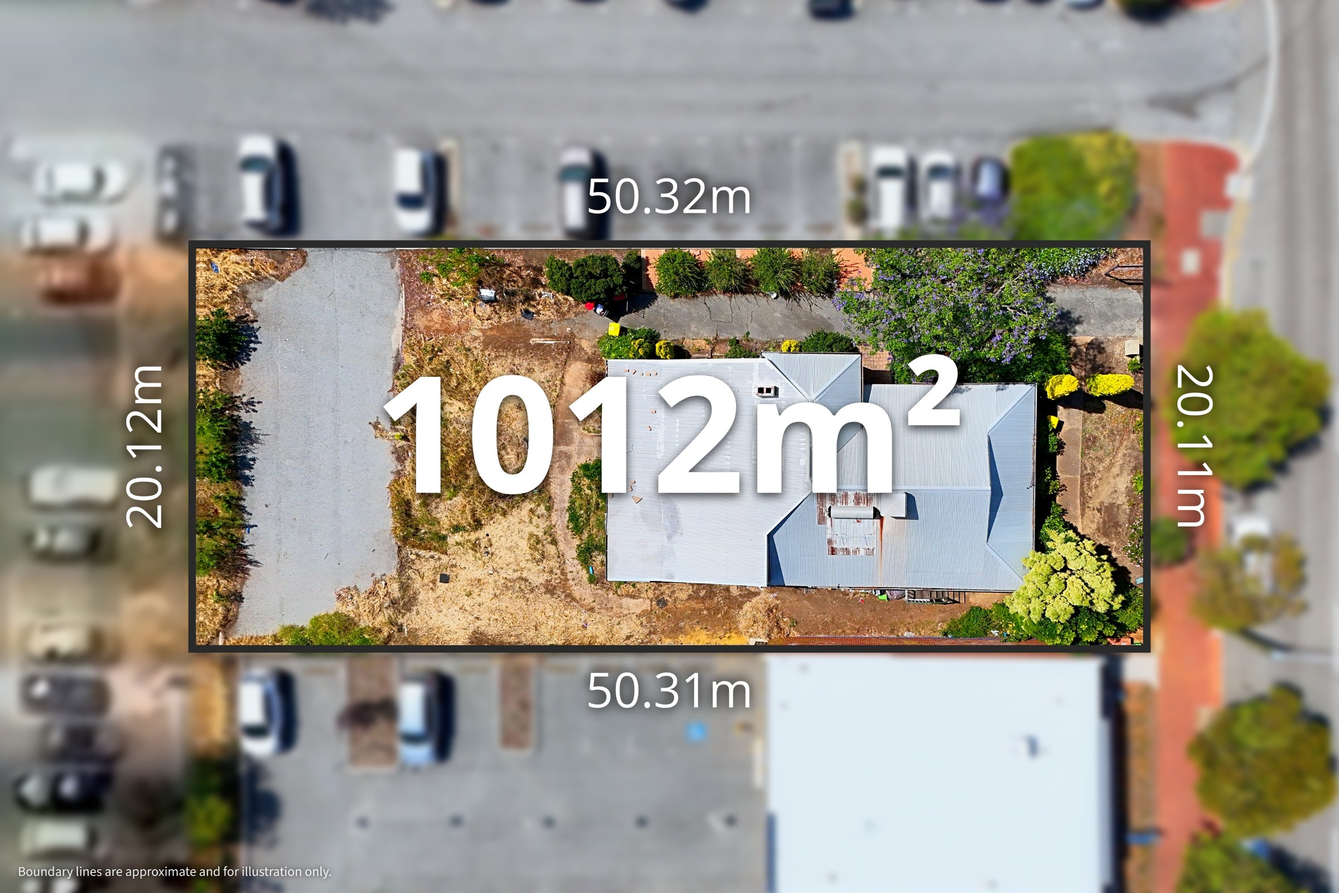
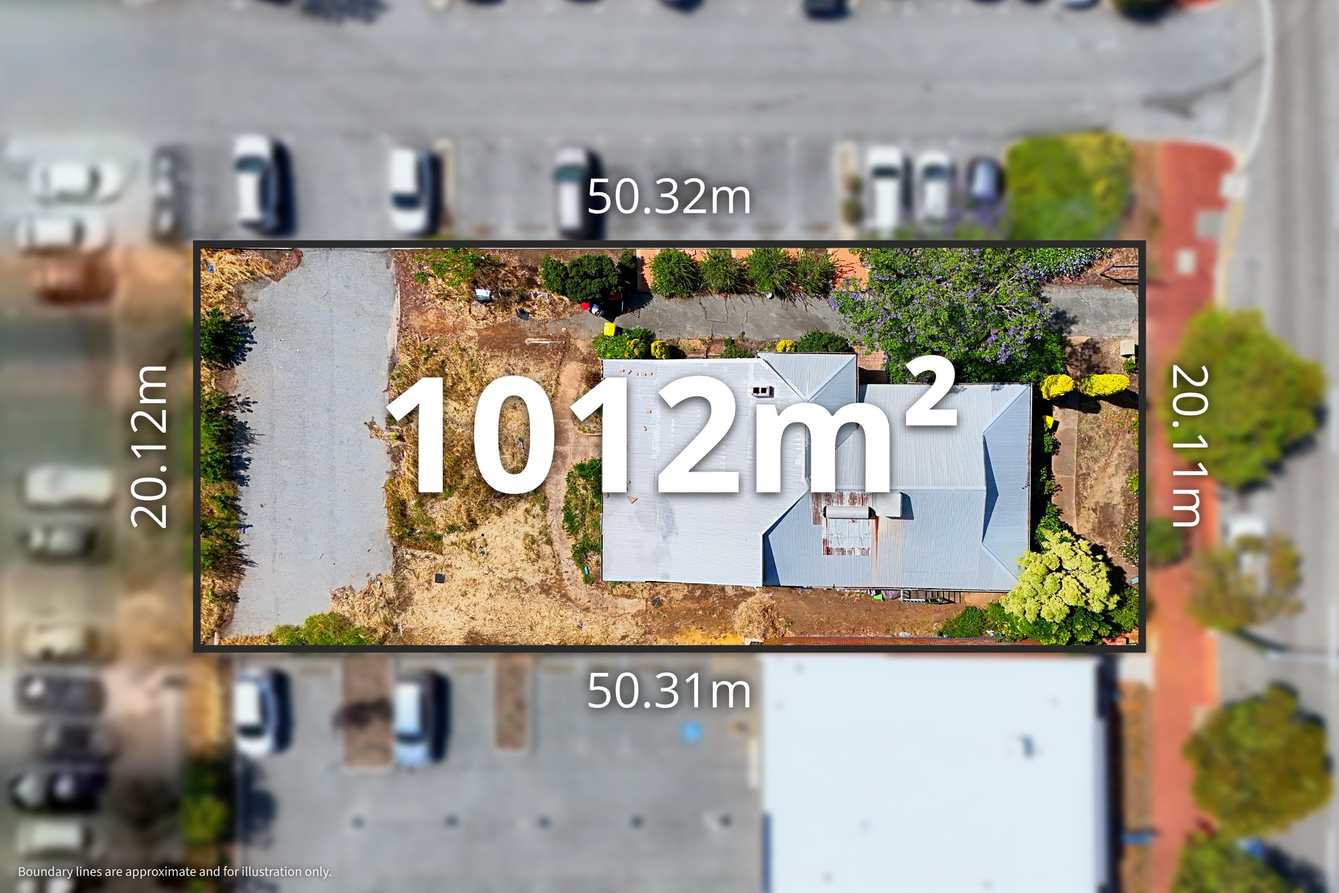
43 William St 0107: smoother satellite background, back line on photo edge
Claude-Session: https://claude.ai/code/session_01A5qGg2LnJXxgSHoMQFvEEG

diff --git a/aerials/17-nov-2026/index.html b/aerials/17-nov-2026/index.html
@@ -5,4 +5,4 @@ body{margin:0;background:var(--bg);color:var(--fg);font:15px/1.45 system-ui,-app
 header,section{max-width:1400px;margin:auto;padding:18px 16px}h1{font-size:20px;margin:0}h2{font-size:17px;margin:0}header p,section p{color:var(--mut);margin:4px 0 0}
 .ed{margin-left:10px;color:var(--acc);font-weight:600;text-decoration:none}a{color:var(--acc)}
 .chk{margin-top:10px}.chk summary{cursor:pointer;color:var(--mut);font-weight:600}.chk iframe{width:100%;height:420px;border:0;border-radius:6px;margin-top:6px;background:#111}.g{display:grid;grid-template-columns:repeat(auto-fill,minmax(280px,1fr));gap:8px;margin-top:10px}.g img{width:100%;display:block;border-radius:4px}</style></head>
-<body><header><h1>Drone edits — Tue 17 Nov 2026</h1><p>Tap a photo for full size. <b>Edit</b> opens the job in the <a href="/pins/">editor</a> with all its pins and settings.</p></header><section><h2>SEND TO EDITOR — no lot boundary (Mac offline, no cadastre/satellite); hazy hills/horizon after sky swap on 0218/0220/0227/0229 (tower ghosting removed); both top-downs over-saturated and the house is off-centre — please re-edit sky/colour · 34 Croyden Rd, Roleystone WA 6111</h2><p>Jayden Cooke · Rodway · 13 photos (top-downs first) <a class="ed" href="/pins/?open=17-nov-2026/34_croyden_rd">Edit</a><a class="ed" href="/lots/?img=/aerials/17-nov-2026/34_croyden_rd/src/DJI_20261117135524_0236_D.jpg&street=Croyden%20Road" target="_blank">Lots</a><a class="ed" href="34_croyden_rd/check.html" target="_blank">Check map</a></p><div class="g"><a href="34_croyden_rd/DJI_20261117135524_0236_D.jpg?v=1794930465" target="_blank"><img loading="lazy" src="34_croyden_rd/t/DJI_20261117135524_0236_D.jpg?v=1794930465" alt=""></a><a href="34_croyden_rd/DJI_20261117135538_0237_D_r180_sq.jpg?v=1794930465" target="_blank"><img loading="lazy" src="34_croyden_rd/t/DJI_20261117135538_0237_D_r180_sq.jpg?v=1794930465" alt=""></a><a href="34_croyden_rd/DJI_20261117134904_0218_D.jpg?v=1794930465" target="_blank"><img loading="lazy" src="34_croyden_rd/t/DJI_20261117134904_0218_D.jpg?v=1794930465" alt=""></a><a href="34_croyden_rd/DJI_20261117135013_0220_D.jpg?v=1794930465" target="_blank"><img loading="lazy" src="34_croyden_rd/t/DJI_20261117135013_0220_D.jpg?v=1794930465" alt=""></a><a href="34_croyden_rd/DJI_20261117135036_0221_D.jpg?v=1794930465" target="_blank"><img loading="lazy" src="34_croyden_rd/t/DJI_20261117135036_0221_D.jpg?v=1794930465" alt=""></a><a href="34_croyden_rd/DJI_20261117135113_0223_D.jpg?v=1794930465" target="_blank"><img loading="lazy" src="34_croyden_rd/t/DJI_20261117135113_0223_D.jpg?v=1794930465" alt=""></a><a href="34_croyden_rd/DJI_20261117135138_0224_D.jpg?v=1794930465" target="_blank"><img loading="lazy" src="34_croyden_rd/t/DJI_20261117135138_0224_D.jpg?v=1794930465" alt=""></a><a href="34_croyden_rd/DJI_20261117135159_0225_D.jpg?v=1794930465" target="_blank"><img loading="lazy" src="34_croyden_rd/t/DJI_20261117135159_0225_D.jpg?v=1794930465" alt=""></a><a href="34_croyden_rd/DJI_20261117135227_0227_D.jpg?v=1794930465" target="_blank"><img loading="lazy" src="34_croyden_rd/t/DJI_20261117135227_0227_D.jpg?v=1794930465" alt=""></a><a href="34_croyden_rd/DJI_20261117135326_0229_D.jpg?v=1794930465" target="_blank"><img loading="lazy" src="34_croyden_rd/t/DJI_20261117135326_0229_D.jpg?v=1794930465" alt=""></a><a href="34_croyden_rd/DJI_20261117143956_0239_D.jpg?v=1794930465" target="_blank"><img loading="lazy" src="34_croyden_rd/t/DJI_20261117143956_0239_D.jpg?v=1794930465" alt=""></a><a href="34_croyden_rd/DJI_20261117144039_0240_D.jpg?v=1794930465" target="_blank"><img loading="lazy" src="34_croyden_rd/t/DJI_20261117144039_0240_D.jpg?v=1794930465" alt=""></a><a href="34_croyden_rd/DJI_20261117144046_0241_D.jpg?v=1794930465" target="_blank"><img loading="lazy" src="34_croyden_rd/t/DJI_20261117144046_0241_D.jpg?v=1794930465" alt=""></a></div><details class="chk" open><summary>Quick check — boundary + 9 pinned places</summary><iframe loading="lazy" src="34_croyden_rd/check.html?v=1794930467" title="Boundary and places check"></iframe></details></section><section><h2>SEND TO EDITOR — pale hard-edged band of old sky above the horizon on 0258/0259/0260 after the sky swap; no lot boundary (grouped dwelling, Mac offline) — please re-do the sky on those frames · 374 Light St, Dianella WA 6059</h2><p>Lucy Deng · Ausvision Realty · 11 photos (top-downs first) <a class="ed" href="/pins/?open=17-nov-2026/374_light_st">Edit</a><a class="ed" href="/lots/?img=/aerials/17-nov-2026/374_light_st/src/DJI_20261117160634_0269_D_r180.jpg&street=Light%20Street" target="_blank">Lots</a><a class="ed" href="374_light_st/check.html" target="_blank">Check map</a></p><div class="g"><a href="374_light_st/DJI_20261117160634_0269_D_r180.jpg?v=1794930470" target="_blank"><img loading="lazy" src="374_light_st/t/DJI_20261117160634_0269_D_r180.jpg?v=1794930470" alt=""></a><a href="374_light_st/DJI_20261117160607_0267_D_sq.jpg?v=1794930470" target="_blank"><img loading="lazy" src="374_light_st/t/DJI_20261117160607_0267_D_sq.jpg?v=1794930470" alt=""></a><a href="374_light_st/DJI_20261117160019_0257_D.jpg?v=1794930470" target="_blank"><img loading="lazy" src="374_light_st/t/DJI_20261117160019_0257_D.jpg?v=1794930470" alt=""></a><a href="374_light_st/DJI_20261117160038_0258_D.jpg?v=1794930470" target="_blank"><img loading="lazy" src="374_light_st/t/DJI_20261117160038_0258_D.jpg?v=1794930470" alt=""></a><a href="374_light_st/DJI_20261117160056_0259_D.jpg?v=1794930470" target="_blank"><img loading="lazy" src="374_light_st/t/DJI_20261117160056_0259_D.jpg?v=1794930470" alt=""></a><a href="374_light_st/DJI_20261117160119_0260_D.jpg?v=1794930470" target="_blank"><img loading="lazy" src="374_light_st/t/DJI_20261117160119_0260_D.jpg?v=1794930470" alt=""></a><a href="374_light_st/DJI_20261117160147_0261_D.jpg?v=1794930470" target="_blank"><img loading="lazy" src="374_light_st/t/DJI_20261117160147_0261_D.jpg?v=1794930470" alt=""></a><a href="374_light_st/DJI_20261117160253_0263_D.jpg?v=1794930470" target="_blank"><img loading="lazy" src="374_light_st/t/DJI_20261117160253_0263_D.jpg?v=1794930470" alt=""></a><a href="374_light_st/DJI_20261117160402_0264_D.jpg?v=1794930470" target="_blank"><img loading="lazy" src="374_light_st/t/DJI_20261117160402_0264_D.jpg?v=1794930470" alt=""></a><a href="374_light_st/DJI_20261117160425_0265_D.jpg?v=1794930470" target="_blank"><img loading="lazy" src="374_light_st/t/DJI_20261117160425_0265_D.jpg?v=1794930470" alt=""></a><a href="374_light_st/DJI_20261117160443_0266_D.jpg?v=1794930470" target="_blank"><img loading="lazy" src="374_light_st/t/DJI_20261117160443_0266_D.jpg?v=1794930470" alt=""></a></div><details class="chk" open><summary>Quick check — boundary + 17 pinned places</summary><iframe loading="lazy" src="374_light_st/check.html?v=1794930472" title="Boundary and places check"></iframe></details></section><section><h2>SEND TO EDITOR — white halo/glow strip along the ridge line on 0114/0115 (faint haze 0108/0111/0112) after the sky swap; house is out of shot on 0110 and 0114 (shooter framing) — please re-do the sky and check those frames · 43 William St, Armadale WA 6112</h2><p>Jayden Cooke · Rodway · 10 photos (top-downs first) <a class="ed" href="/pins/?open=17-nov-2026/43_william_st">Edit</a><a class="ed" href="/lots/?img=/aerials/17-nov-2026/43_william_st/src/dji_fly_20261117_102652_0102_1794923605590_photo_sq.JPG&street=William%20Street" target="_blank">Lots</a><a class="ed" href="43_william_st/check.html" target="_blank">Check map</a></p><div class="g"><a href="43_william_st/dji_fly_20261117_102652_0102_1794923605590_photo_sq.jpg?v=1795010000" target="_blank"><img loading="lazy" src="43_william_st/t/dji_fly_20261117_102652_0102_1794923605590_photo_sq.jpg?v=1795010000" alt=""></a><a href="43_william_st/dji_fly_20261117_102734_0107_1794923598787_photo_sq.jpg?v=1795090000" target="_blank"><img loading="lazy" src="43_william_st/t/dji_fly_20261117_102734_0107_1794923598787_photo_sq.jpg?v=1795090000" alt=""></a><a href="43_william_st/dji_fly_20261117_102804_0108_1794923597373_photo.jpg?v=1795010000" target="_blank"><img loading="lazy" src="43_william_st/t/dji_fly_20261117_102804_0108_1794923597373_photo.jpg?v=1795010000" alt=""></a><a href="43_william_st/dji_fly_20261117_102836_0109_1794923595154_photo.jpg?v=1795010000" target="_blank"><img loading="lazy" src="43_william_st/t/dji_fly_20261117_102836_0109_1794923595154_photo.jpg?v=1795010000" alt=""></a><a href="43_william_st/dji_fly_20261117_102942_0110_1794923593774_photo.jpg?v=1795010000" target="_blank"><img loading="lazy" src="43_william_st/t/dji_fly_20261117_102942_0110_1794923593774_photo.jpg?v=1795010000" alt=""></a><a href="43_william_st/dji_fly_20261117_103016_0111_1794923592394_photo.jpg?v=1795010000" target="_blank"><img loading="lazy" src="43_william_st/t/dji_fly_20261117_103016_0111_1794923592394_photo.jpg?v=1795010000" alt=""></a><a href="43_william_st/dji_fly_20261117_103050_0112_1794923591070_photo.jpg?v=1795010000" target="_blank"><img loading="lazy" src="43_william_st/t/dji_fly_20261117_103050_0112_1794923591070_photo.jpg?v=1795010000" alt=""></a><a href="43_william_st/dji_fly_20261117_103102_0113_1794923589788_photo.jpg?v=1795010000" target="_blank"><img loading="lazy" src="43_william_st/t/dji_fly_20261117_103102_0113_1794923589788_photo.jpg?v=1795010000" alt=""></a><a href="43_william_st/dji_fly_20261117_103116_0114_1794923588534_photo.jpg?v=1795010000" target="_blank"><img loading="lazy" src="43_william_st/t/dji_fly_20261117_103116_0114_1794923588534_photo.jpg?v=1795010000" alt=""></a><a href="43_william_st/dji_fly_20261117_103130_0115_1794923587236_photo.jpg?v=1795010000" target="_blank"><img loading="lazy" src="43_william_st/t/dji_fly_20261117_103130_0115_1794923587236_photo.jpg?v=1795010000" alt=""></a></div><details class="chk" open><summary>Quick check — boundary + 12 pinned places</summary><iframe loading="lazy" src="43_william_st/check.html?v=1794950668" title="Boundary and places check"></iframe></details></section><section><h2>SEND TO EDITOR — sky swap left ghost blocks of old sky above the horizon on 0125/0126/0127 and halos/ghosting around the CBD towers on 0118/0119/0128, grey haze over the hills on 0123/0124 — please replace the sky on every oblique · 28/76 Newcastle St, West Perth WA 6005</h2><p>Shane Garrett · Belle Property · 13 photos (top-downs first) <a class="ed" href="/pins/?open=17-nov-2026/28_76_newcastle_st">Edit</a><a class="ed" href="/lots/?img=/aerials/17-nov-2026/28_76_newcastle_st/src/dji_fly_20261117_123400_0117_1794923584798_photo_r180_sq.JPG&street=Newcastle%20Street" target="_blank">Lots</a><a class="ed" href="28_76_newcastle_st/check.html" target="_blank">Check map</a></p><div class="g"><a href="28_76_newcastle_st/dji_fly_20261117_123400_0117_1794923584798_photo_r180_sq.jpg?v=1794950677" target="_blank"><img loading="lazy" src="28_76_newcastle_st/t/dji_fly_20261117_123400_0117_1794923584798_photo_r180_sq.jpg?v=1794950677" alt=""></a><a href="28_76_newcastle_st/dji_fly_20261117_123356_0116_1794923585995_photo.jpg?v=1794950678" target="_blank"><img loading="lazy" src="28_76_newcastle_st/t/dji_fly_20261117_123356_0116_1794923585995_photo.jpg?v=1794950678" alt=""></a><a href="28_76_newcastle_st/dji_fly_20261117_123438_0118_1794923583683_photo.jpg?v=1794950678" target="_blank"><img loading="lazy" src="28_76_newcastle_st/t/dji_fly_20261117_123438_0118_1794923583683_photo.jpg?v=1794950678" alt=""></a><a href="28_76_newcastle_st/dji_fly_20261117_123500_0119_1794923582541_photo.jpg?v=1794950678" target="_blank"><img loading="lazy" src="28_76_newcastle_st/t/dji_fly_20261117_123500_0119_1794923582541_photo.jpg?v=1794950678" alt=""></a><a href="28_76_newcastle_st/dji_fly_20261117_123532_0120_1794923581349_photo.jpg?v=1794950678" target="_blank"><img loading="lazy" src="28_76_newcastle_st/t/dji_fly_20261117_123532_0120_1794923581349_photo.jpg?v=1794950678" alt=""></a><a href="28_76_newcastle_st/dji_fly_20261117_123548_0121_1794923580121_photo.jpg?v=1794950678" target="_blank"><img loading="lazy" src="28_76_newcastle_st/t/dji_fly_20261117_123548_0121_1794923580121_photo.jpg?v=1794950678" alt=""></a><a href="28_76_newcastle_st/dji_fly_20261117_123610_0122_1794923578874_photo.jpg?v=1794950678" target="_blank"><img loading="lazy" src="28_76_newcastle_st/t/dji_fly_20261117_123610_0122_1794923578874_photo.jpg?v=1794950678" alt=""></a><a href="28_76_newcastle_st/dji_fly_20261117_123630_0123_1794923577572_photo.jpg?v=1794950678" target="_blank"><img loading="lazy" src="28_76_newcastle_st/t/dji_fly_20261117_123630_0123_1794923577572_photo.jpg?v=1794950678" alt=""></a><a href="28_76_newcastle_st/dji_fly_20261117_123646_0124_1794923576272_photo.jpg?v=1794950678" target="_blank"><img loading="lazy" src="28_76_newcastle_st/t/dji_fly_20261117_123646_0124_1794923576272_photo.jpg?v=1794950678" alt=""></a><a href="28_76_newcastle_st/dji_fly_20261117_123702_0125_1794923575020_photo.jpg?v=1794950678" target="_blank"><img loading="lazy" src="28_76_newcastle_st/t/dji_fly_20261117_123702_0125_1794923575020_photo.jpg?v=1794950678" alt=""></a><a href="28_76_newcastle_st/dji_fly_20261117_123724_0126_1794923573753_photo.jpg?v=1794950678" target="_blank"><img loading="lazy" src="28_76_newcastle_st/t/dji_fly_20261117_123724_0126_1794923573753_photo.jpg?v=1794950678" alt=""></a><a href="28_76_newcastle_st/dji_fly_20261117_123754_0127_1794923572402_photo.jpg?v=1794950678" target="_blank"><img loading="lazy" src="28_76_newcastle_st/t/dji_fly_20261117_123754_0127_1794923572402_photo.jpg?v=1794950678" alt=""></a><a href="28_76_newcastle_st/dji_fly_20261117_123806_0128_1794923571185_photo.jpg?v=1794950678" target="_blank"><img loading="lazy" src="28_76_newcastle_st/t/dji_fly_20261117_123806_0128_1794923571185_photo.jpg?v=1794950678" alt=""></a></div><details class="chk" open><summary>Quick check — boundary + 8 pinned places</summary><iframe loading="lazy" src="28_76_newcastle_st/check.html?v=1794950681" title="Boundary and places check"></iframe></details></section><section><h2>SEND TO EDITOR — CBD tower tops ghosted after the sky swap on 0135/0136, faint halo 0131 and haze 0133/0134 — please re-do the sky on the obliques · 79/1178 Hay St, West Perth WA 6005</h2><p>Megan Topham · Belle Property · 12 photos (top-downs first) <a class="ed" href="/pins/?open=17-nov-2026/79_1178_hay_st">Edit</a><a class="ed" href="/lots/?img=/aerials/17-nov-2026/79_1178_hay_st/src/dji_fly_20261117_160212_0129_1794923569992_photo_r270.JPG&street=Hay%20Street" target="_blank">Lots</a><a class="ed" href="79_1178_hay_st/check.html" target="_blank">Check map</a></p><div class="g"><a href="79_1178_hay_st/dji_fly_20261117_160212_0129_1794923569992_photo_r270.jpg?v=1794950688" target="_blank"><img loading="lazy" src="79_1178_hay_st/t/dji_fly_20261117_160212_0129_1794923569992_photo_r270.jpg?v=1794950688" alt=""></a><a href="79_1178_hay_st/dji_fly_20261117_160212_0129_1794923569992_photo.jpg?v=1794950688" target="_blank"><img loading="lazy" src="79_1178_hay_st/t/dji_fly_20261117_160212_0129_1794923569992_photo.jpg?v=1794950688" alt=""></a><a href="79_1178_hay_st/dji_fly_20261117_160252_0130_1794923568799_photo.jpg?v=1794950688" target="_blank"><img loading="lazy" src="79_1178_hay_st/t/dji_fly_20261117_160252_0130_1794923568799_photo.jpg?v=1794950688" alt=""></a><a href="79_1178_hay_st/dji_fly_20261117_160320_0131_1794923567548_photo.jpg?v=1794950688" target="_blank"><img loading="lazy" src="79_1178_hay_st/t/dji_fly_20261117_160320_0131_1794923567548_photo.jpg?v=1794950688" alt=""></a><a href="79_1178_hay_st/dji_fly_20261117_160336_0132_1794923565379_photo.jpg?v=1794950688" target="_blank"><img loading="lazy" src="79_1178_hay_st/t/dji_fly_20261117_160336_0132_1794923565379_photo.jpg?v=1794950688" alt=""></a><a href="79_1178_hay_st/dji_fly_20261117_160354_0133_1794923564099_photo.jpg?v=1794950688" target="_blank"><img loading="lazy" src="79_1178_hay_st/t/dji_fly_20261117_160354_0133_1794923564099_photo.jpg?v=1794950688" alt=""></a><a href="79_1178_hay_st/dji_fly_20261117_160406_0134_1794923562823_photo.jpg?v=1794950688" target="_blank"><img loading="lazy" src="79_1178_hay_st/t/dji_fly_20261117_160406_0134_1794923562823_photo.jpg?v=1794950688" alt=""></a><a href="79_1178_hay_st/dji_fly_20261117_160428_0135_1794923561548_photo.jpg?v=1794950688" target="_blank"><img loading="lazy" src="79_1178_hay_st/t/dji_fly_20261117_160428_0135_1794923561548_photo.jpg?v=1794950688" alt=""></a><a href="79_1178_hay_st/dji_fly_20261117_160446_0136_1794923560286_photo.jpg?v=1794950688" target="_blank"><img loading="lazy" src="79_1178_hay_st/t/dji_fly_20261117_160446_0136_1794923560286_photo.jpg?v=1794950688" alt=""></a><a href="79_1178_hay_st/dji_fly_20261117_160512_0137_1794923559042_photo.jpg?v=1794950688" target="_blank"><img loading="lazy" src="79_1178_hay_st/t/dji_fly_20261117_160512_0137_1794923559042_photo.jpg?v=1794950688" alt=""></a><a href="79_1178_hay_st/dji_fly_20261117_160530_0138_1794923557769_photo.jpg?v=1794950688" target="_blank"><img loading="lazy" src="79_1178_hay_st/t/dji_fly_20261117_160530_0138_1794923557769_photo.jpg?v=1794950688" alt=""></a><a href="79_1178_hay_st/dji_fly_20261117_160548_0139_1794923556478_photo.jpg?v=1794950688" target="_blank"><img loading="lazy" src="79_1178_hay_st/t/dji_fly_20261117_160548_0139_1794923556478_photo.jpg?v=1794950688" alt=""></a></div><details class="chk" open><summary>Quick check — boundary + 10 pinned places</summary><iframe loading="lazy" src="79_1178_hay_st/check.html?v=1794950691" title="Boundary and places check"></iframe></details></section><script src="../dl.js"></script></body></html>
+<body><header><h1>Drone edits — Tue 17 Nov 2026</h1><p>Tap a photo for full size. <b>Edit</b> opens the job in the <a href="/pins/">editor</a> with all its pins and settings.</p></header><section><h2>SEND TO EDITOR — no lot boundary (Mac offline, no cadastre/satellite); hazy hills/horizon after sky swap on 0218/0220/0227/0229 (tower ghosting removed); both top-downs over-saturated and the house is off-centre — please re-edit sky/colour · 34 Croyden Rd, Roleystone WA 6111</h2><p>Jayden Cooke · Rodway · 13 photos (top-downs first) <a class="ed" href="/pins/?open=17-nov-2026/34_croyden_rd">Edit</a><a class="ed" href="/lots/?img=/aerials/17-nov-2026/34_croyden_rd/src/DJI_20261117135524_0236_D.jpg&street=Croyden%20Road" target="_blank">Lots</a><a class="ed" href="34_croyden_rd/check.html" target="_blank">Check map</a></p><div class="g"><a href="34_croyden_rd/DJI_20261117135524_0236_D.jpg?v=1794930465" target="_blank"><img loading="lazy" src="34_croyden_rd/t/DJI_20261117135524_0236_D.jpg?v=1794930465" alt=""></a><a href="34_croyden_rd/DJI_20261117135538_0237_D_r180_sq.jpg?v=1794930465" target="_blank"><img loading="lazy" src="34_croyden_rd/t/DJI_20261117135538_0237_D_r180_sq.jpg?v=1794930465" alt=""></a><a href="34_croyden_rd/DJI_20261117134904_0218_D.jpg?v=1794930465" target="_blank"><img loading="lazy" src="34_croyden_rd/t/DJI_20261117134904_0218_D.jpg?v=1794930465" alt=""></a><a href="34_croyden_rd/DJI_20261117135013_0220_D.jpg?v=1794930465" target="_blank"><img loading="lazy" src="34_croyden_rd/t/DJI_20261117135013_0220_D.jpg?v=1794930465" alt=""></a><a href="34_croyden_rd/DJI_20261117135036_0221_D.jpg?v=1794930465" target="_blank"><img loading="lazy" src="34_croyden_rd/t/DJI_20261117135036_0221_D.jpg?v=1794930465" alt=""></a><a href="34_croyden_rd/DJI_20261117135113_0223_D.jpg?v=1794930465" target="_blank"><img loading="lazy" src="34_croyden_rd/t/DJI_20261117135113_0223_D.jpg?v=1794930465" alt=""></a><a href="34_croyden_rd/DJI_20261117135138_0224_D.jpg?v=1794930465" target="_blank"><img loading="lazy" src="34_croyden_rd/t/DJI_20261117135138_0224_D.jpg?v=1794930465" alt=""></a><a href="34_croyden_rd/DJI_20261117135159_0225_D.jpg?v=1794930465" target="_blank"><img loading="lazy" src="34_croyden_rd/t/DJI_20261117135159_0225_D.jpg?v=1794930465" alt=""></a><a href="34_croyden_rd/DJI_20261117135227_0227_D.jpg?v=1794930465" target="_blank"><img loading="lazy" src="34_croyden_rd/t/DJI_20261117135227_0227_D.jpg?v=1794930465" alt=""></a><a href="34_croyden_rd/DJI_20261117135326_0229_D.jpg?v=1794930465" target="_blank"><img loading="lazy" src="34_croyden_rd/t/DJI_20261117135326_0229_D.jpg?v=1794930465" alt=""></a><a href="34_croyden_rd/DJI_20261117143956_0239_D.jpg?v=1794930465" target="_blank"><img loading="lazy" src="34_croyden_rd/t/DJI_20261117143956_0239_D.jpg?v=1794930465" alt=""></a><a href="34_croyden_rd/DJI_20261117144039_0240_D.jpg?v=1794930465" target="_blank"><img loading="lazy" src="34_croyden_rd/t/DJI_20261117144039_0240_D.jpg?v=1794930465" alt=""></a><a href="34_croyden_rd/DJI_20261117144046_0241_D.jpg?v=1794930465" target="_blank"><img loading="lazy" src="34_croyden_rd/t/DJI_20261117144046_0241_D.jpg?v=1794930465" alt=""></a></div><details class="chk" open><summary>Quick check — boundary + 9 pinned places</summary><iframe loading="lazy" src="34_croyden_rd/check.html?v=1794930467" title="Boundary and places check"></iframe></details></section><section><h2>SEND TO EDITOR — pale hard-edged band of old sky above the horizon on 0258/0259/0260 after the sky swap; no lot boundary (grouped dwelling, Mac offline) — please re-do the sky on those frames · 374 Light St, Dianella WA 6059</h2><p>Lucy Deng · Ausvision Realty · 11 photos (top-downs first) <a class="ed" href="/pins/?open=17-nov-2026/374_light_st">Edit</a><a class="ed" href="/lots/?img=/aerials/17-nov-2026/374_light_st/src/DJI_20261117160634_0269_D_r180.jpg&street=Light%20Street" target="_blank">Lots</a><a class="ed" href="374_light_st/check.html" target="_blank">Check map</a></p><div class="g"><a href="374_light_st/DJI_20261117160634_0269_D_r180.jpg?v=1794930470" target="_blank"><img loading="lazy" src="374_light_st/t/DJI_20261117160634_0269_D_r180.jpg?v=1794930470" alt=""></a><a href="374_light_st/DJI_20261117160607_0267_D_sq.jpg?v=1794930470" target="_blank"><img loading="lazy" src="374_light_st/t/DJI_20261117160607_0267_D_sq.jpg?v=1794930470" alt=""></a><a href="374_light_st/DJI_20261117160019_0257_D.jpg?v=1794930470" target="_blank"><img loading="lazy" src="374_light_st/t/DJI_20261117160019_0257_D.jpg?v=1794930470" alt=""></a><a href="374_light_st/DJI_20261117160038_0258_D.jpg?v=1794930470" target="_blank"><img loading="lazy" src="374_light_st/t/DJI_20261117160038_0258_D.jpg?v=1794930470" alt=""></a><a href="374_light_st/DJI_20261117160056_0259_D.jpg?v=1794930470" target="_blank"><img loading="lazy" src="374_light_st/t/DJI_20261117160056_0259_D.jpg?v=1794930470" alt=""></a><a href="374_light_st/DJI_20261117160119_0260_D.jpg?v=1794930470" target="_blank"><img loading="lazy" src="374_light_st/t/DJI_20261117160119_0260_D.jpg?v=1794930470" alt=""></a><a href="374_light_st/DJI_20261117160147_0261_D.jpg?v=1794930470" target="_blank"><img loading="lazy" src="374_light_st/t/DJI_20261117160147_0261_D.jpg?v=1794930470" alt=""></a><a href="374_light_st/DJI_20261117160253_0263_D.jpg?v=1794930470" target="_blank"><img loading="lazy" src="374_light_st/t/DJI_20261117160253_0263_D.jpg?v=1794930470" alt=""></a><a href="374_light_st/DJI_20261117160402_0264_D.jpg?v=1794930470" target="_blank"><img loading="lazy" src="374_light_st/t/DJI_20261117160402_0264_D.jpg?v=1794930470" alt=""></a><a href="374_light_st/DJI_20261117160425_0265_D.jpg?v=1794930470" target="_blank"><img loading="lazy" src="374_light_st/t/DJI_20261117160425_0265_D.jpg?v=1794930470" alt=""></a><a href="374_light_st/DJI_20261117160443_0266_D.jpg?v=1794930470" target="_blank"><img loading="lazy" src="374_light_st/t/DJI_20261117160443_0266_D.jpg?v=1794930470" alt=""></a></div><details class="chk" open><summary>Quick check — boundary + 17 pinned places</summary><iframe loading="lazy" src="374_light_st/check.html?v=1794930472" title="Boundary and places check"></iframe></details></section><section><h2>SEND TO EDITOR — white halo/glow strip along the ridge line on 0114/0115 (faint haze 0108/0111/0112) after the sky swap; house is out of shot on 0110 and 0114 (shooter framing) — please re-do the sky and check those frames · 43 William St, Armadale WA 6112</h2><p>Jayden Cooke · Rodway · 10 photos (top-downs first) <a class="ed" href="/pins/?open=17-nov-2026/43_william_st">Edit</a><a class="ed" href="/lots/?img=/aerials/17-nov-2026/43_william_st/src/dji_fly_20261117_102652_0102_1794923605590_photo_sq.JPG&street=William%20Street" target="_blank">Lots</a><a class="ed" href="43_william_st/check.html" target="_blank">Check map</a></p><div class="g"><a href="43_william_st/dji_fly_20261117_102652_0102_1794923605590_photo_sq.jpg?v=1795010000" target="_blank"><img loading="lazy" src="43_william_st/t/dji_fly_20261117_102652_0102_1794923605590_photo_sq.jpg?v=1795010000" alt=""></a><a href="43_william_st/dji_fly_20261117_102734_0107_1794923598787_photo_sq.jpg?v=1795100000" target="_blank"><img loading="lazy" src="43_william_st/t/dji_fly_20261117_102734_0107_1794923598787_photo_sq.jpg?v=1795100000" alt=""></a><a href="43_william_st/dji_fly_20261117_102804_0108_1794923597373_photo.jpg?v=1795010000" target="_blank"><img loading="lazy" src="43_william_st/t/dji_fly_20261117_102804_0108_1794923597373_photo.jpg?v=1795010000" alt=""></a><a href="43_william_st/dji_fly_20261117_102836_0109_1794923595154_photo.jpg?v=1795010000" target="_blank"><img loading="lazy" src="43_william_st/t/dji_fly_20261117_102836_0109_1794923595154_photo.jpg?v=1795010000" alt=""></a><a href="43_william_st/dji_fly_20261117_102942_0110_1794923593774_photo.jpg?v=1795010000" target="_blank"><img loading="lazy" src="43_william_st/t/dji_fly_20261117_102942_0110_1794923593774_photo.jpg?v=1795010000" alt=""></a><a href="43_william_st/dji_fly_20261117_103016_0111_1794923592394_photo.jpg?v=1795010000" target="_blank"><img loading="lazy" src="43_william_st/t/dji_fly_20261117_103016_0111_1794923592394_photo.jpg?v=1795010000" alt=""></a><a href="43_william_st/dji_fly_20261117_103050_0112_1794923591070_photo.jpg?v=1795010000" target="_blank"><img loading="lazy" src="43_william_st/t/dji_fly_20261117_103050_0112_1794923591070_photo.jpg?v=1795010000" alt=""></a><a href="43_william_st/dji_fly_20261117_103102_0113_1794923589788_photo.jpg?v=1795010000" target="_blank"><img loading="lazy" src="43_william_st/t/dji_fly_20261117_103102_0113_1794923589788_photo.jpg?v=1795010000" alt=""></a><a href="43_william_st/dji_fly_20261117_103116_0114_1794923588534_photo.jpg?v=1795010000" target="_blank"><img loading="lazy" src="43_william_st/t/dji_fly_20261117_103116_0114_1794923588534_photo.jpg?v=1795010000" alt=""></a><a href="43_william_st/dji_fly_20261117_103130_0115_1794923587236_photo.jpg?v=1795010000" target="_blank"><img loading="lazy" src="43_william_st/t/dji_fly_20261117_103130_0115_1794923587236_photo.jpg?v=1795010000" alt=""></a></div><details class="chk" open><summary>Quick check — boundary + 12 pinned places</summary><iframe loading="lazy" src="43_william_st/check.html?v=1794950668" title="Boundary and places check"></iframe></details></section><section><h2>SEND TO EDITOR — sky swap left ghost blocks of old sky above the horizon on 0125/0126/0127 and halos/ghosting around the CBD towers on 0118/0119/0128, grey haze over the hills on 0123/0124 — please replace the sky on every oblique · 28/76 Newcastle St, West Perth WA 6005</h2><p>Shane Garrett · Belle Property · 13 photos (top-downs first) <a class="ed" href="/pins/?open=17-nov-2026/28_76_newcastle_st">Edit</a><a class="ed" href="/lots/?img=/aerials/17-nov-2026/28_76_newcastle_st/src/dji_fly_20261117_123400_0117_1794923584798_photo_r180_sq.JPG&street=Newcastle%20Street" target="_blank">Lots</a><a class="ed" href="28_76_newcastle_st/check.html" target="_blank">Check map</a></p><div class="g"><a href="28_76_newcastle_st/dji_fly_20261117_123400_0117_1794923584798_photo_r180_sq.jpg?v=1794950677" target="_blank"><img loading="lazy" src="28_76_newcastle_st/t/dji_fly_20261117_123400_0117_1794923584798_photo_r180_sq.jpg?v=1794950677" alt=""></a><a href="28_76_newcastle_st/dji_fly_20261117_123356_0116_1794923585995_photo.jpg?v=1794950678" target="_blank"><img loading="lazy" src="28_76_newcastle_st/t/dji_fly_20261117_123356_0116_1794923585995_photo.jpg?v=1794950678" alt=""></a><a href="28_76_newcastle_st/dji_fly_20261117_123438_0118_1794923583683_photo.jpg?v=1794950678" target="_blank"><img loading="lazy" src="28_76_newcastle_st/t/dji_fly_20261117_123438_0118_1794923583683_photo.jpg?v=1794950678" alt=""></a><a href="28_76_newcastle_st/dji_fly_20261117_123500_0119_1794923582541_photo.jpg?v=1794950678" target="_blank"><img loading="lazy" src="28_76_newcastle_st/t/dji_fly_20261117_123500_0119_1794923582541_photo.jpg?v=1794950678" alt=""></a><a href="28_76_newcastle_st/dji_fly_20261117_123532_0120_1794923581349_photo.jpg?v=1794950678" target="_blank"><img loading="lazy" src="28_76_newcastle_st/t/dji_fly_20261117_123532_0120_1794923581349_photo.jpg?v=1794950678" alt=""></a><a href="28_76_newcastle_st/dji_fly_20261117_123548_0121_1794923580121_photo.jpg?v=1794950678" target="_blank"><img loading="lazy" src="28_76_newcastle_st/t/dji_fly_20261117_123548_0121_1794923580121_photo.jpg?v=1794950678" alt=""></a><a href="28_76_newcastle_st/dji_fly_20261117_123610_0122_1794923578874_photo.jpg?v=1794950678" target="_blank"><img loading="lazy" src="28_76_newcastle_st/t/dji_fly_20261117_123610_0122_1794923578874_photo.jpg?v=1794950678" alt=""></a><a href="28_76_newcastle_st/dji_fly_20261117_123630_0123_1794923577572_photo.jpg?v=1794950678" target="_blank"><img loading="lazy" src="28_76_newcastle_st/t/dji_fly_20261117_123630_0123_1794923577572_photo.jpg?v=1794950678" alt=""></a><a href="28_76_newcastle_st/dji_fly_20261117_123646_0124_1794923576272_photo.jpg?v=1794950678" target="_blank"><img loading="lazy" src="28_76_newcastle_st/t/dji_fly_20261117_123646_0124_1794923576272_photo.jpg?v=1794950678" alt=""></a><a href="28_76_newcastle_st/dji_fly_20261117_123702_0125_1794923575020_photo.jpg?v=1794950678" target="_blank"><img loading="lazy" src="28_76_newcastle_st/t/dji_fly_20261117_123702_0125_1794923575020_photo.jpg?v=1794950678" alt=""></a><a href="28_76_newcastle_st/dji_fly_20261117_123724_0126_1794923573753_photo.jpg?v=1794950678" target="_blank"><img loading="lazy" src="28_76_newcastle_st/t/dji_fly_20261117_123724_0126_1794923573753_photo.jpg?v=1794950678" alt=""></a><a href="28_76_newcastle_st/dji_fly_20261117_123754_0127_1794923572402_photo.jpg?v=1794950678" target="_blank"><img loading="lazy" src="28_76_newcastle_st/t/dji_fly_20261117_123754_0127_1794923572402_photo.jpg?v=1794950678" alt=""></a><a href="28_76_newcastle_st/dji_fly_20261117_123806_0128_1794923571185_photo.jpg?v=1794950678" target="_blank"><img loading="lazy" src="28_76_newcastle_st/t/dji_fly_20261117_123806_0128_1794923571185_photo.jpg?v=1794950678" alt=""></a></div><details class="chk" open><summary>Quick check — boundary + 8 pinned places</summary><iframe loading="lazy" src="28_76_newcastle_st/check.html?v=1794950681" title="Boundary and places check"></iframe></details></section><section><h2>SEND TO EDITOR — CBD tower tops ghosted after the sky swap on 0135/0136, faint halo 0131 and haze 0133/0134 — please re-do the sky on the obliques · 79/1178 Hay St, West Perth WA 6005</h2><p>Megan Topham · Belle Property · 12 photos (top-downs first) <a class="ed" href="/pins/?open=17-nov-2026/79_1178_hay_st">Edit</a><a class="ed" href="/lots/?img=/aerials/17-nov-2026/79_1178_hay_st/src/dji_fly_20261117_160212_0129_1794923569992_photo_r270.JPG&street=Hay%20Street" target="_blank">Lots</a><a class="ed" href="79_1178_hay_st/check.html" target="_blank">Check map</a></p><div class="g"><a href="79_1178_hay_st/dji_fly_20261117_160212_0129_1794923569992_photo_r270.jpg?v=1794950688" target="_blank"><img loading="lazy" src="79_1178_hay_st/t/dji_fly_20261117_160212_0129_1794923569992_photo_r270.jpg?v=1794950688" alt=""></a><a href="79_1178_hay_st/dji_fly_20261117_160212_0129_1794923569992_photo.jpg?v=1794950688" target="_blank"><img loading="lazy" src="79_1178_hay_st/t/dji_fly_20261117_160212_0129_1794923569992_photo.jpg?v=1794950688" alt=""></a><a href="79_1178_hay_st/dji_fly_20261117_160252_0130_1794923568799_photo.jpg?v=1794950688" target="_blank"><img loading="lazy" src="79_1178_hay_st/t/dji_fly_20261117_160252_0130_1794923568799_photo.jpg?v=1794950688" alt=""></a><a href="79_1178_hay_st/dji_fly_20261117_160320_0131_1794923567548_photo.jpg?v=1794950688" target="_blank"><img loading="lazy" src="79_1178_hay_st/t/dji_fly_20261117_160320_0131_1794923567548_photo.jpg?v=1794950688" alt=""></a><a href="79_1178_hay_st/dji_fly_20261117_160336_0132_1794923565379_photo.jpg?v=1794950688" target="_blank"><img loading="lazy" src="79_1178_hay_st/t/dji_fly_20261117_160336_0132_1794923565379_photo.jpg?v=1794950688" alt=""></a><a href="79_1178_hay_st/dji_fly_20261117_160354_0133_1794923564099_photo.jpg?v=1794950688" target="_blank"><img loading="lazy" src="79_1178_hay_st/t/dji_fly_20261117_160354_0133_1794923564099_photo.jpg?v=1794950688" alt=""></a><a href="79_1178_hay_st/dji_fly_20261117_160406_0134_1794923562823_photo.jpg?v=1794950688" target="_blank"><img loading="lazy" src="79_1178_hay_st/t/dji_fly_20261117_160406_0134_1794923562823_photo.jpg?v=1794950688" alt=""></a><a href="79_1178_hay_st/dji_fly_20261117_160428_0135_1794923561548_photo.jpg?v=1794950688" target="_blank"><img loading="lazy" src="79_1178_hay_st/t/dji_fly_20261117_160428_0135_1794923561548_photo.jpg?v=1794950688" alt=""></a><a href="79_1178_hay_st/dji_fly_20261117_160446_0136_1794923560286_photo.jpg?v=1794950688" target="_blank"><img loading="lazy" src="79_1178_hay_st/t/dji_fly_20261117_160446_0136_1794923560286_photo.jpg?v=1794950688" alt=""></a><a href="79_1178_hay_st/dji_fly_20261117_160512_0137_1794923559042_photo.jpg?v=1794950688" target="_blank"><img loading="lazy" src="79_1178_hay_st/t/dji_fly_20261117_160512_0137_1794923559042_photo.jpg?v=1794950688" alt=""></a><a href="79_1178_hay_st/dji_fly_20261117_160530_0138_1794923557769_photo.jpg?v=1794950688" target="_blank"><img loading="lazy" src="79_1178_hay_st/t/dji_fly_20261117_160530_0138_1794923557769_photo.jpg?v=1794950688" alt=""></a><a href="79_1178_hay_st/dji_fly_20261117_160548_0139_1794923556478_photo.jpg?v=1794950688" target="_blank"><img loading="lazy" src="79_1178_hay_st/t/dji_fly_20261117_160548_0139_1794923556478_photo.jpg?v=1794950688" alt=""></a></div><details class="chk" open><summary>Quick check — boundary + 10 pinned places</summary><iframe loading="lazy" src="79_1178_hay_st/check.html?v=1794950691" title="Boundary and places check"></iframe></details></section><script src="../dl.js"></script></body></html>
